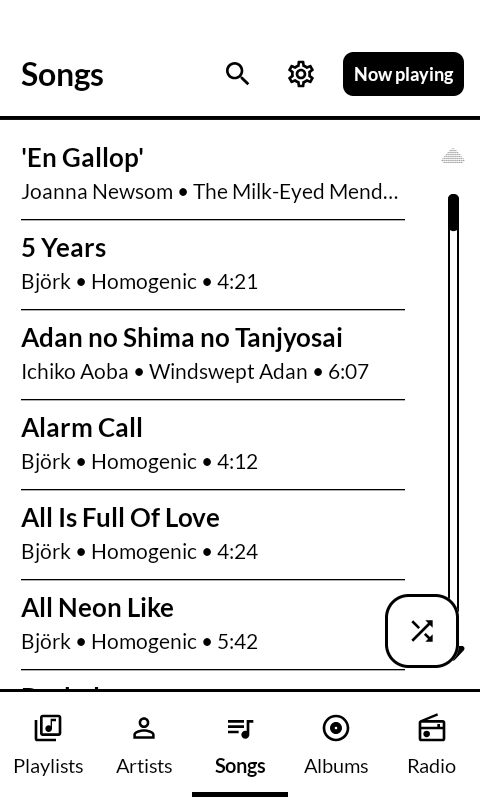
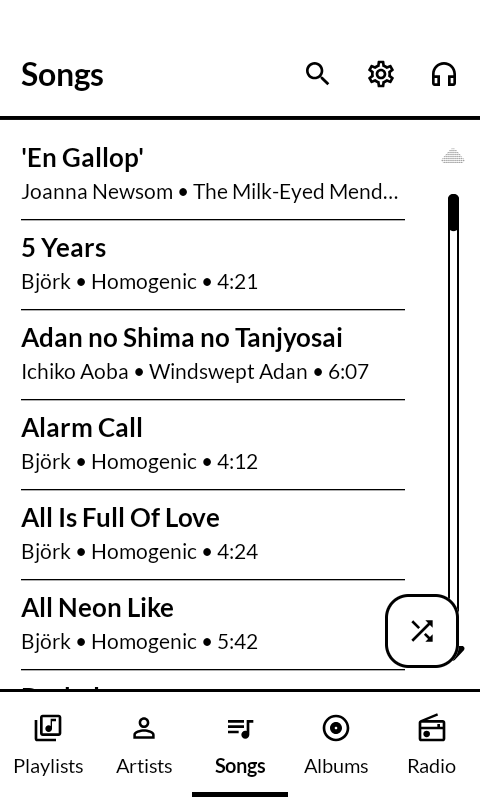
Two things a screenshot made obvious
Taking the README shots put six screens side by side for the first time, and
both of these only look wrong next to each other.

The way back to Now playing was a filled black button sitting in a row with two
hairline glyphs, so the heaviest mark on the screen was the one pointing at a
screen you had just come from. It is the headphones now, which is already what
marks the playing row in a list, and it stops a large black fill from being
painted and unpainted on an e-ink panel every time you move between screens.

And a song row said "Ichiko Aoba - Windswept Adan - 4:55" under every track of
Windswept Adan, on a page headed Windswept Adan by Ichiko Aoba - repeating the
two facts the reader has and pushing the one they might want, the length, off
the end of the line. A screen that already names the artist or the album now
tells the row so, and the row leaves that part out. Compared by the same
folding the library groups artists with, so a page headed Björk does not start
repeating itself over a track tagged Bjork; a compilation, whose tracks really
are by different people, still names each one.

The four screenshots are retaken with both in.

Changed region(s): [[0.7188, 0.0625, 0.9688, 0.125], [0.5938, 0.0625, 0.6875, 0.125], [0.4688, 0.0625, 0.5312, 0.125]]

diff --git a/app/src/main/java/com/wanderwildwood/jimeikin/ui/SongAndPlaylistItems.kt b/app/src/main/java/com/wanderwildwood/jimeikin/ui/SongAndPlaylistItems.kt
@@ -1,5 +1,7 @@
 package com.wanderwildwood.jimeikin.ui
 
+import com.wanderwildwood.jimeikin.data.ArtistNames
+
 import android.net.Uri
 import androidx.compose.foundation.ExperimentalFoundationApi
 import androidx.compose.foundation.clickable
@@ -55,7 +57,14 @@ fun SongItem(
     isDownloaded: Boolean = false,
     showDivider: Boolean = true,
     isInLibrary: Boolean = false,
+    knownArtist: String? = null,
+    knownAlbum: String? = null,
 ) {
+    // A row on an album page said "Ichiko Aoba - Windswept Adan - 4:55" under every track,
+    // on a page whose heading already read "Windswept Adan / Ichiko Aoba" - the two facts
+    // the reader could not need repeated eight times, pushing the one they might, the
+    // length, off the end of a 480px line. A screen that already names the artist or the
+    // album says so, and the row leaves that part out.
     val (isLocal, subtitle) = remember(
         song.id,
         song.audioUri,
@@ -63,6 +72,8 @@ fun SongItem(
         song.album,
         song.durationText,
         song.sourceType,
+        knownArtist,
+        knownAlbum,
     ) {
         val local = song.sourceType == "LOCAL_FILE" ||
             song.sourceType == "YOUTUBE_DOWNLOAD" ||
@@ -80,8 +91,18 @@ fun SongItem(
         }
 
         val mp4 = local && fileExtension == "mp4"
-        val baseArtist = song.artist.ifBlank { if (local) "Local file" else "" }
-        val album = song.album?.takeIf { it.isNotBlank() }
+        // Compared the same way the library groups artists, so a page headed Björk does not
+        // start repeating the artist again the moment one track is tagged Bjork.
+        fun sameName(a: String?, b: String?) =
+            !a.isNullOrBlank() && !b.isNullOrBlank() && ArtistNames.key(a) == ArtistNames.key(b)
+
+        val baseArtist = song.artist
+            .ifBlank { if (local) "Local file" else "" }
+            .takeUnless { sameName(it, knownArtist) }
+            .orEmpty()
+        val album = song.album
+            ?.takeIf { it.isNotBlank() }
+            ?.takeUnless { sameName(it, knownAlbum) }
         val durationText = song.durationText?.takeIf { it.isNotBlank() }
         val prefix = if (mp4) "MP4 • " else ""
 

diff --git a/app/src/main/java/com/wanderwildwood/jimeikin/CalmMusicChrome.kt b/app/src/main/java/com/wanderwildwood/jimeikin/CalmMusicChrome.kt
@@ -6,6 +6,7 @@ import androidx.compose.material.icons.Icons
 import androidx.compose.material.icons.automirrored.filled.ArrowBack
 import androidx.compose.material.icons.outlined.Clear
 import androidx.compose.material.icons.outlined.Edit
+import androidx.compose.material.icons.outlined.Headphones
 import androidx.compose.material.icons.outlined.MoreVert
 import androidx.compose.material.icons.outlined.Info
 import androidx.compose.material.icons.outlined.Search
@@ -375,16 +376,15 @@ private fun CalmMusicTopAppBarActions(
         !(currentDestination?.route == Screen.Playlists.route && isPlaylistsEditMode) &&
         !(currentDestination.isPlaylistDetails() && isPlaylistDetailsEditMode)
     ) {
-        ButtonMMD(
-            onClick = onNowPlayingClick,
-            contentPadding = PaddingValues(8.dp),
-            modifier = Modifier.padding(horizontal = 8.dp),
-        ) {
-            TextMMD(
-                text = "Now playing",
-                textAlign = TextAlign.Center,
-                fontSize = 14.sp,
-                fontWeight = FontWeight.Bold,
+        // Headphones, because that is already what marks the playing row in a list, and an
+        // icon because the filled button this used to be was the heaviest thing on every
+        // screen it appeared on - a solid black slab beside two hairline glyphs, and a
+        // large black fill is the slowest, ghostiest thing you can ask an e-ink panel to
+        // draw and undraw as you move between screens.
+        IconButton(onClick = onNowPlayingClick) {
+            Icon(
+                imageVector = Icons.Outlined.Headphones,
+                contentDescription = "Now playing",
             )
         }
     }

diff --git a/app/src/main/java/com/wanderwildwood/jimeikin/ui/ArtistDetailsScreen.kt b/app/src/main/java/com/wanderwildwood/jimeikin/ui/ArtistDetailsScreen.kt
@@ -1,5 +1,7 @@
 package com.wanderwildwood.jimeikin.ui
 
+import com.wanderwildwood.jimeikin.data.ArtistNames
+
 import androidx.compose.foundation.layout.Arrangement
 import androidx.compose.foundation.layout.Box
 import androidx.compose.foundation.layout.Column
@@ -56,6 +58,13 @@ fun ArtistDetailsScreen(
 
     var selectedTab by rememberSaveable { mutableIntStateOf(0) }
     val tabOptions = listOf("Albums", "Songs")
+
+    // Whose page this is, taken from the records rather than from the row being drawn, so a
+    // track credited to somebody else and filed here under its album artist still says so.
+    val pageArtist = remember(songs, albums) {
+        ArtistNames.preferred(albums.mapNotNull { it.artist } + songs.map { it.artist })
+            .takeIf { it.isNotBlank() }
+    }
 
     val playbackState by viewModel.playbackState.collectAsState()
     val currentSongId = playbackState.currentSongId
@@ -176,6 +185,9 @@ fun ArtistDetailsScreen(
                                         onDelete = { onDeleteClick(song) },
                                         onKeepOnPhone = { onKeepOnPhoneClick(song) },
                                         showDivider = song != songs.lastOrNull(),
+                                        // The heading already says it; the rows get on with
+                                        // saying which record each song is off.
+                                        knownArtist = pageArtist,
                                     )
                                 }
                             } else {

diff --git a/app/src/main/java/com/wanderwildwood/jimeikin/ui/AlbumDetailsScreen.kt b/app/src/main/java/com/wanderwildwood/jimeikin/ui/AlbumDetailsScreen.kt
@@ -158,6 +158,10 @@ fun AlbumDetailsScreen(
                                 showDivider = song != displaySongs.lastOrNull(),
                                 showTrackNumber = true,
                                 isInLibrary = librarySongIds.contains(song.id),
+                                // The heading above already says both. A compilation, where
+                                // the tracks are by different people, still names each one.
+                                knownArtist = album?.artist,
+                                knownAlbum = album?.title,
                             )
                         }
                     }
